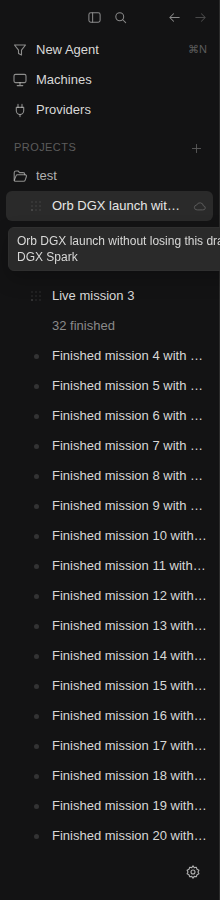
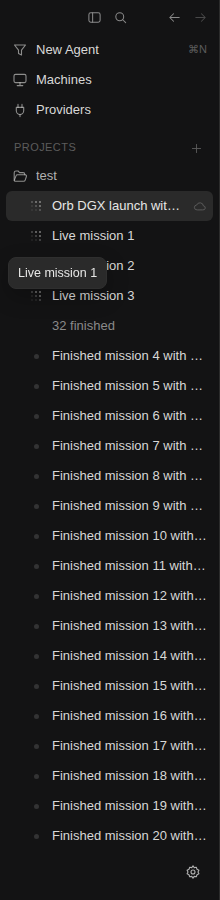
fix(orb): delayed sidebar tooltip card with title and metadata
Replace native title/length heuristics with one mounted hover/focus
card. Full title plus known machine lines only; timers cleaned up;
accessible names unchanged.

Changed region(s): [[0.0273, 0.2489, 1.0, 0.3422]]

diff --git a/orb/src/ProjectFiles.tsx b/orb/src/ProjectFiles.tsx
@@ -39,12 +39,11 @@ export function missionMachine(m: { remote_job?: { node_id?: string } | null; re
   return id ? nodeLabel(id) : undefined;
 }
 
-/** Delayed native title for truncated labels plus known repo/branch/machine. */
-export function rowDetail(title: string, extra: Array<string | undefined | null> = []): string | undefined {
-  const known = extra.map((part) => part?.trim()).filter((part): part is string => !!part);
-  const overflow = title.length > 28;
-  if (!overflow && !known.length) return undefined;
-  return [overflow ? title : undefined, ...known].filter(Boolean).join(" · ");
+export type RowTipContent = { title: string; meta: string[] };
+
+/** Full title plus known repo/branch/machine lines. Never invented. */
+export function rowDetail(title: string, extra: Array<string | undefined | null> = []): RowTipContent {
+  return { title, meta: extra.map((part) => part?.trim()).filter((part): part is string => !!part) };
 }
 
 /** Where an agent runs: the workspace/machine name behind a cloud glyph.
@@ -60,19 +59,29 @@ function MachineBadge(p: { name?: string | null }) {
 }
 
 function useRowTip() {
-  const [tip, setTip] = createSignal<{ text: string; x: number; y: number } | null>(null);
+  const [tip, setTip] = createSignal<{ title: string; meta: string[]; x: number; y: number } | null>(null);
   let timer = 0;
-  const hide = () => { window.clearTimeout(timer); setTip(null); };
-  const show = (text: string | undefined, el: HTMLElement) => {
+  const hide = () => { window.clearTimeout(timer); timer = 0; setTip(null); };
+  const show = (content: RowTipContent, el: HTMLElement) => {
     window.clearTimeout(timer);
-    if (!text) { setTip(null); return; }
     timer = window.setTimeout(() => {
+      if (!el.isConnected) return;
       const box = el.getBoundingClientRect();
-      setTip({ text, x: Math.max(8, Math.min(box.left, window.innerWidth - 260)), y: box.bottom + 6 });
+      setTip({
+        ...content,
+        x: Math.max(8, Math.min(box.left, window.innerWidth - 280)),
+        y: box.bottom + 6,
+      });
     }, 480);
   };
+  const bind = (content: RowTipContent) => ({
+    onPointerEnter: (e: { currentTarget: HTMLElement }) => show(content, e.currentTarget),
+    onPointerLeave: hide,
+    onFocus: (e: { currentTarget: HTMLElement }) => show(content, e.currentTarget),
+    onBlur: hide,
+  });
   onCleanup(hide);
-  return { tip, show, hide };
+  return { tip, bind, hide };
 }
 
 export function LiveProjectsSection(p: {
@@ -282,10 +291,7 @@ export function LiveProjectsSection(p: {
                 <button
                   class="row folder depth"
                   style={{ "--depth": dp.depth + 1 }}
-                  onPointerEnter={(e) => rowTip.show(rowDetail(entry.name), e.currentTarget)}
-                  onPointerLeave={rowTip.hide}
-                  onFocus={(e) => rowTip.show(rowDetail(entry.name), e.currentTarget)}
-                  onBlur={rowTip.hide}
+                  {...rowTip.bind(rowDetail(entry.name))}
                   onClick={() => toggleDir(dp.slug, childPath())}
                   onContextMenu={(e) => {
                     e.preventDefault();
@@ -309,10 +315,7 @@ export function LiveProjectsSection(p: {
             <button
               class={`row file depth ${p.selected() === id() ? "active" : ""}`}
               style={{ "--depth": dp.depth + 1 }}
-              onPointerEnter={(e) => rowTip.show(rowDetail(entry.name), e.currentTarget)}
-              onPointerLeave={rowTip.hide}
-              onFocus={(e) => rowTip.show(rowDetail(entry.name), e.currentTarget)}
-              onBlur={rowTip.hide}
+              {...rowTip.bind(rowDetail(entry.name))}
               onClick={() => p.open(id())}
             >
               <span class="row-ico"><Ic.FileIcon /></span>
@@ -375,10 +378,7 @@ export function LiveProjectsSection(p: {
                     return (
                       <button
                         class={`row agent d1 cron ${p.selected() === `c:${project.slug}` ? "active" : ""}`}
-                        onPointerEnter={(e) => rowTip.show(rowDetail(job().name, ["Controller"]), e.currentTarget)}
-                        onPointerLeave={rowTip.hide}
-                        onFocus={(e) => rowTip.show(rowDetail(job().name, ["Controller"]), e.currentTarget)}
-                        onBlur={rowTip.hide}
+                        {...rowTip.bind(rowDetail(job().name, ["Controller"]))}
                         onClick={() => p.open(`c:${project.slug}`)}
                       >
                         <span class="row-ico glyph">
@@ -405,10 +405,7 @@ export function LiveProjectsSection(p: {
                   {(job) => (
                     <button
                       class={`row agent d1 cron ${p.selected() === `pc:${project.slug}:${job.id}` ? "active" : ""}`}
-                      onPointerEnter={(e) => rowTip.show(rowDetail(job.name, ["Cron"]), e.currentTarget)}
-                      onPointerLeave={rowTip.hide}
-                      onFocus={(e) => rowTip.show(rowDetail(job.name, ["Cron"]), e.currentTarget)}
-                      onBlur={rowTip.hide}
+                      {...rowTip.bind(rowDetail(job.name, ["Cron"]))}
                       onClick={() => p.open(`pc:${project.slug}:${job.id}`)}
                     >
                       <span class="row-ico glyph"><CronGlyph job={job} /></span>
@@ -421,10 +418,7 @@ export function LiveProjectsSection(p: {
                   {(m) => (
                     <button
                       class={`row agent d1 ${p.selected() === `m:${m.id}` ? "active" : ""}`}
-                      onPointerEnter={(e) => rowTip.show(rowDetail(displayTitle(m.title) || m.id, [missionMachine(m)]), e.currentTarget)}
-                      onPointerLeave={rowTip.hide}
-                      onFocus={(e) => rowTip.show(rowDetail(displayTitle(m.title) || m.id, [missionMachine(m)]), e.currentTarget)}
-                      onBlur={rowTip.hide}
+                      {...rowTip.bind(rowDetail(displayTitle(m.title) || m.id, [missionMachine(m)]))}
                       onClick={() => p.open(`m:${m.id}`)}
                     >
                       <span class="row-ico glyph">
@@ -450,10 +444,7 @@ export function LiveProjectsSection(p: {
                       {(m) => (
                         <button
                           class={`row agent done d1 ${p.selected() === `m:${m.id}` ? "active" : ""}`}
-                          onPointerEnter={(e) => rowTip.show(rowDetail(displayTitle(m.title) || m.id, [missionMachine(m)]), e.currentTarget)}
-                          onPointerLeave={rowTip.hide}
-                          onFocus={(e) => rowTip.show(rowDetail(displayTitle(m.title) || m.id, [missionMachine(m)]), e.currentTarget)}
-                          onBlur={rowTip.hide}
+                          {...rowTip.bind(rowDetail(displayTitle(m.title) || m.id, [missionMachine(m)]))}
                           onClick={() => p.open(`m:${m.id}`)}
                         >
                           <span class="row-ico glyph">
@@ -483,7 +474,14 @@ export function LiveProjectsSection(p: {
       <Show when={actionMenu()}>
         {(menu) => <PopupMenu {...menu()} focus={actionFocus()} items={menuItems(menu().slug, menu().path)} onClose={() => setActionMenu(null)} />}
       </Show>
-      <Show when={rowTip.tip()}>{(tip) => <div class="row-tip" role="tooltip" style={{ left: `${tip().x}px`, top: `${tip().y}px` }}>{tip().text}</div>}</Show>
+      <div class="row-tip" role="tooltip" hidden={!rowTip.tip()} style={rowTip.tip() ? { left: `${rowTip.tip()!.x}px`, top: `${rowTip.tip()!.y}px` } : undefined}>
+        <Show when={rowTip.tip()}>{(tip) => (
+          <>
+            <div class="row-tip-title">{tip().title}</div>
+            <For each={tip().meta}>{(line) => <div class="row-tip-meta">{line}</div>}</For>
+          </>
+        )}</Show>
+      </div>
       <Show when={newFolder()}>
         {(target) => (
           <Dialog title="New folder" onClose={() => !makingFolder() && setNewFolder(null)} footer={<><button class="s-btn" disabled={makingFolder()} onClick={() => setNewFolder(null)}>Cancel</button><button class="s-btn primary" disabled={makingFolder()} onClick={createFolder}>{makingFolder() ? "Creating…" : "Create"}</button></>}>

diff --git a/orb/tests/sidebar.browser.spec.ts b/orb/tests/sidebar.browser.spec.ts
@@ -79,11 +79,25 @@ test("sidebar rows stay compact with distinct hover/selected and delayed real me
   expect(doneColor).toBe(liveColor);
   const dim = await page.evaluate(() => getComputedStyle(document.documentElement).getPropertyValue("--fg-3").trim());
   expect(doneColor).not.toBe(dim);
+  expect(await live.getAttribute("title")).toBeNull();
   await live.hover();
+  const tip = page.locator(".row-tip");
+  await expect(tip).toBeHidden();
   await page.waitForTimeout(560);
-  await expect(page.locator(".row-tip")).toContainText("Orb DGX launch without losing this draft");
-  await expect(page.locator(".row-tip")).toContainText("DGX Spark");
-  await expect(page.locator(".row-tip")).not.toContainText("host");
+  await expect(tip).toBeVisible();
+  await expect(tip.locator(".row-tip-title")).toHaveText("Orb DGX launch without losing this draft");
+  await expect(tip.locator(".row-tip-meta")).toHaveText("DGX Spark");
+  await expect(tip).not.toContainText("host");
+  await expect(live).toHaveAccessibleName(/Orb DGX launch without losing this draft/);
+  await page.screenshot({ path: "test-results/orb-sidebar-tooltip.png" });
+  await page.mouse.move(0, 0);
+  await expect(tip).toBeHidden();
+  await otherLive.focus();
+  await expect(tip).toBeHidden();
+  await page.waitForTimeout(560);
+  await expect(tip).toBeVisible();
+  await expect(tip.locator(".row-tip-title")).toHaveText("Live mission 1");
+  await expect(tip.locator(".row-tip-meta")).toHaveCount(0);
   await page.locator("#orb-sidebar").screenshot({ path: "test-results/orb-sidebar-finished.png" });
   const measure = await page.evaluate(() => {
     const rows = [...document.querySelectorAll("#orb-sidebar .row")];

diff --git a/orb/src/styles.css b/orb/src/styles.css
@@ -788,11 +788,14 @@ textarea::placeholder { color: var(--placeholder); }
 .row.d2 { padding-left: 22px; }
 .row.depth { padding-left: calc(8px + var(--depth, 0) * 14px); }
 .row-tip {
-  position: fixed; z-index: 80; max-width: 260px; padding: 5px 8px; border-radius: 6px;
+  position: fixed; z-index: 80; max-width: 280px; padding: 7px 9px; border-radius: 8px;
   background: var(--bg-dlg); color: var(--fg); border: 1px solid var(--stroke);
-  box-shadow: 0 8px 20px color-mix(in srgb, #000 22%, transparent);
+  box-shadow: 0 8px 22px color-mix(in srgb, #000 24%, transparent);
   font-size: 12px; line-height: 16px; pointer-events: none; white-space: normal;
 }
+.row-tip[hidden] { display: none; }
+.row-tip-title { color: var(--fg-strong); font-size: 12.5px; line-height: 16px; }
+.row-tip-meta { color: var(--fg-3); font-size: 11.5px; line-height: 15px; margin-top: 3px; }
 .row.note { font-size: 12px; color: var(--fg-3); height: auto; min-height: 24px; white-space: normal; line-height: 15px; padding-top: 3px; padding-bottom: 3px; }
 .row.note:hover { background: transparent; }
 .row.file svg { color: var(--fg-3); }

diff --git a/orb/tests/sidebar.test.ts b/orb/tests/sidebar.test.ts
@@ -6,9 +6,9 @@ describe("sidebar row details stay factual", () => {
     expect(missionMachine({ remote_node_id: "dgx-spark", workspace_name: "host" })).toBe("DGX Spark");
     expect(missionMachine({ workspace_name: "verity" })).toBe("verity");
     expect(missionMachine({})).toBeUndefined();
-    expect(rowDetail("Short")).toBeUndefined();
+    expect(rowDetail("Short")).toEqual({ title: "Short", meta: [] });
     expect(rowDetail("Check remote startup without losing this draft", ["DGX Spark"]))
-      .toBe("Check remote startup without losing this draft · DGX Spark");
-    expect(rowDetail("Short", [undefined, "Core"])).toBe("Core");
+      .toEqual({ title: "Check remote startup without losing this draft", meta: ["DGX Spark"] });
+    expect(rowDetail("Short", [undefined, "Core"])).toEqual({ title: "Short", meta: ["Core"] });
   });
 });
